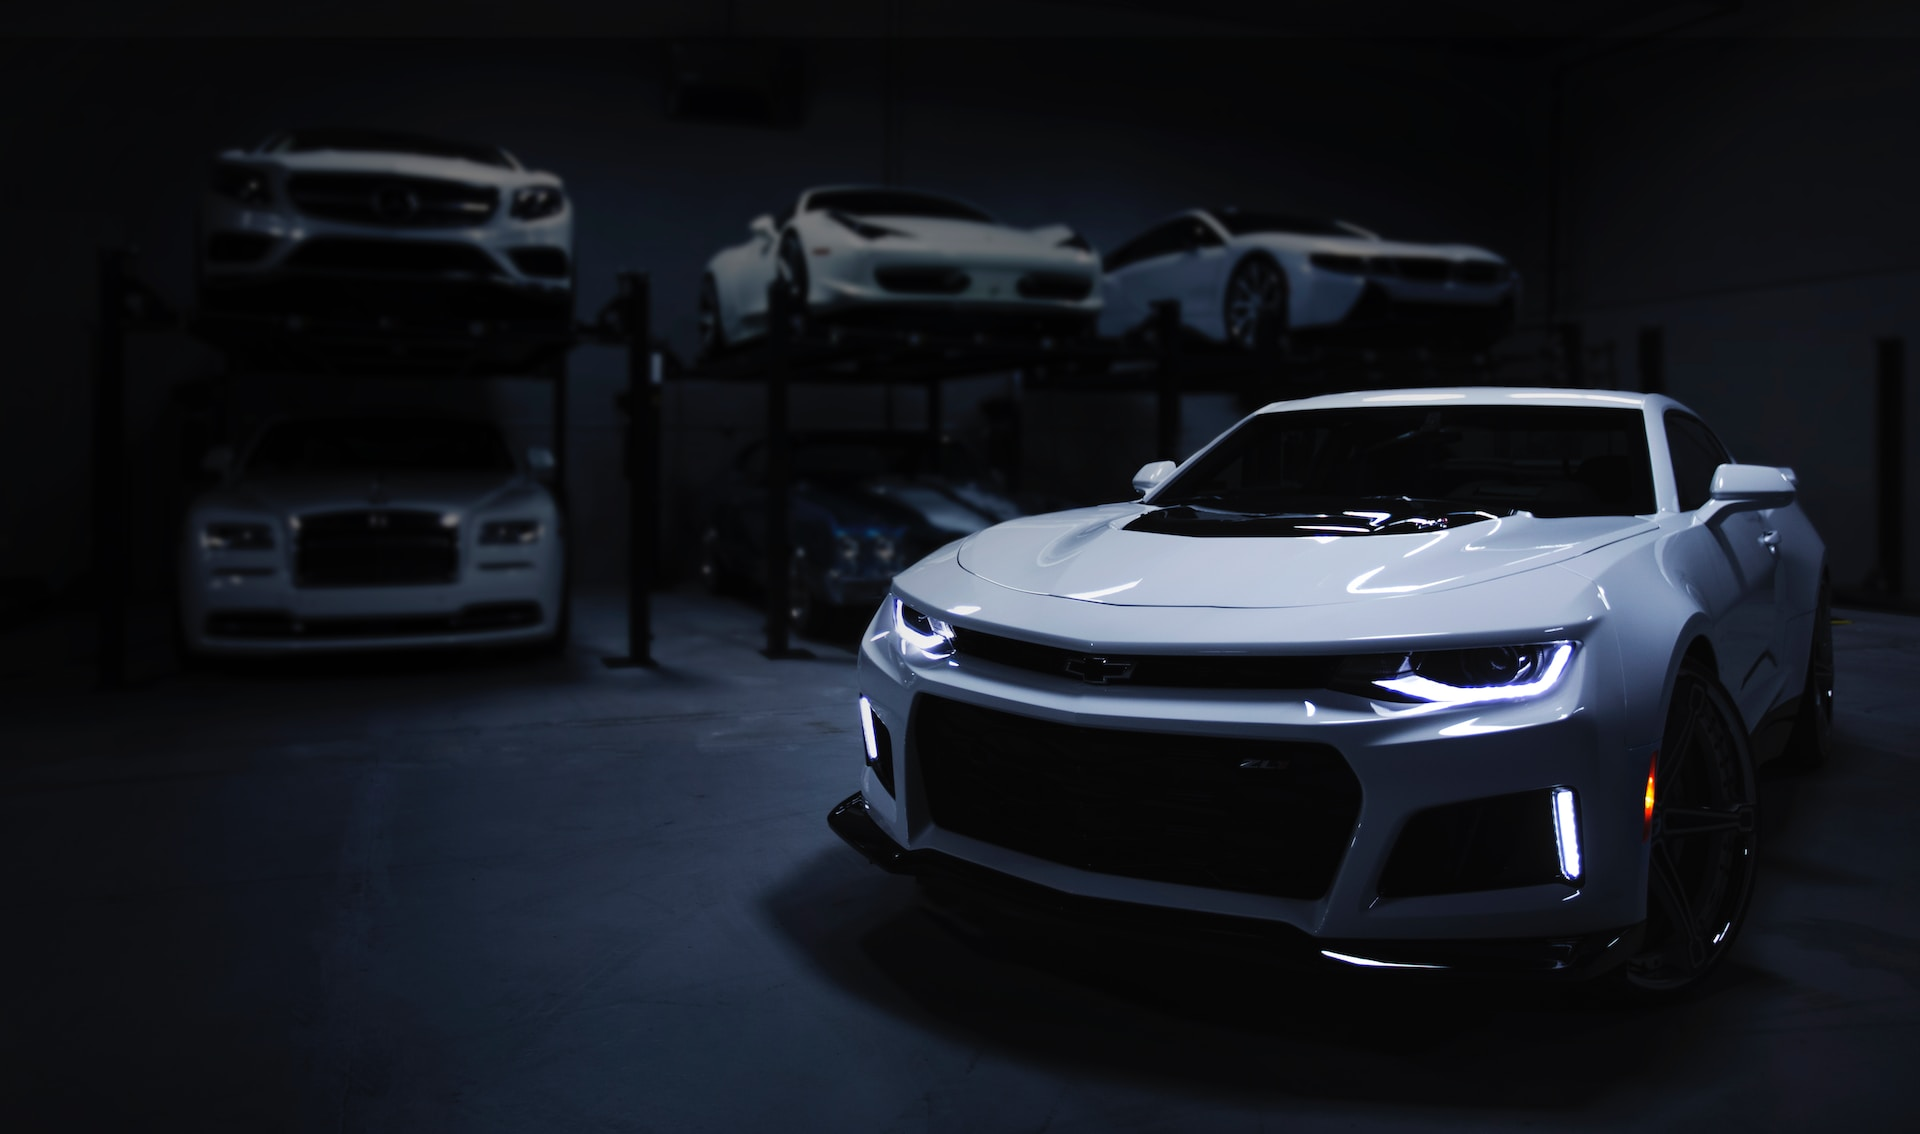
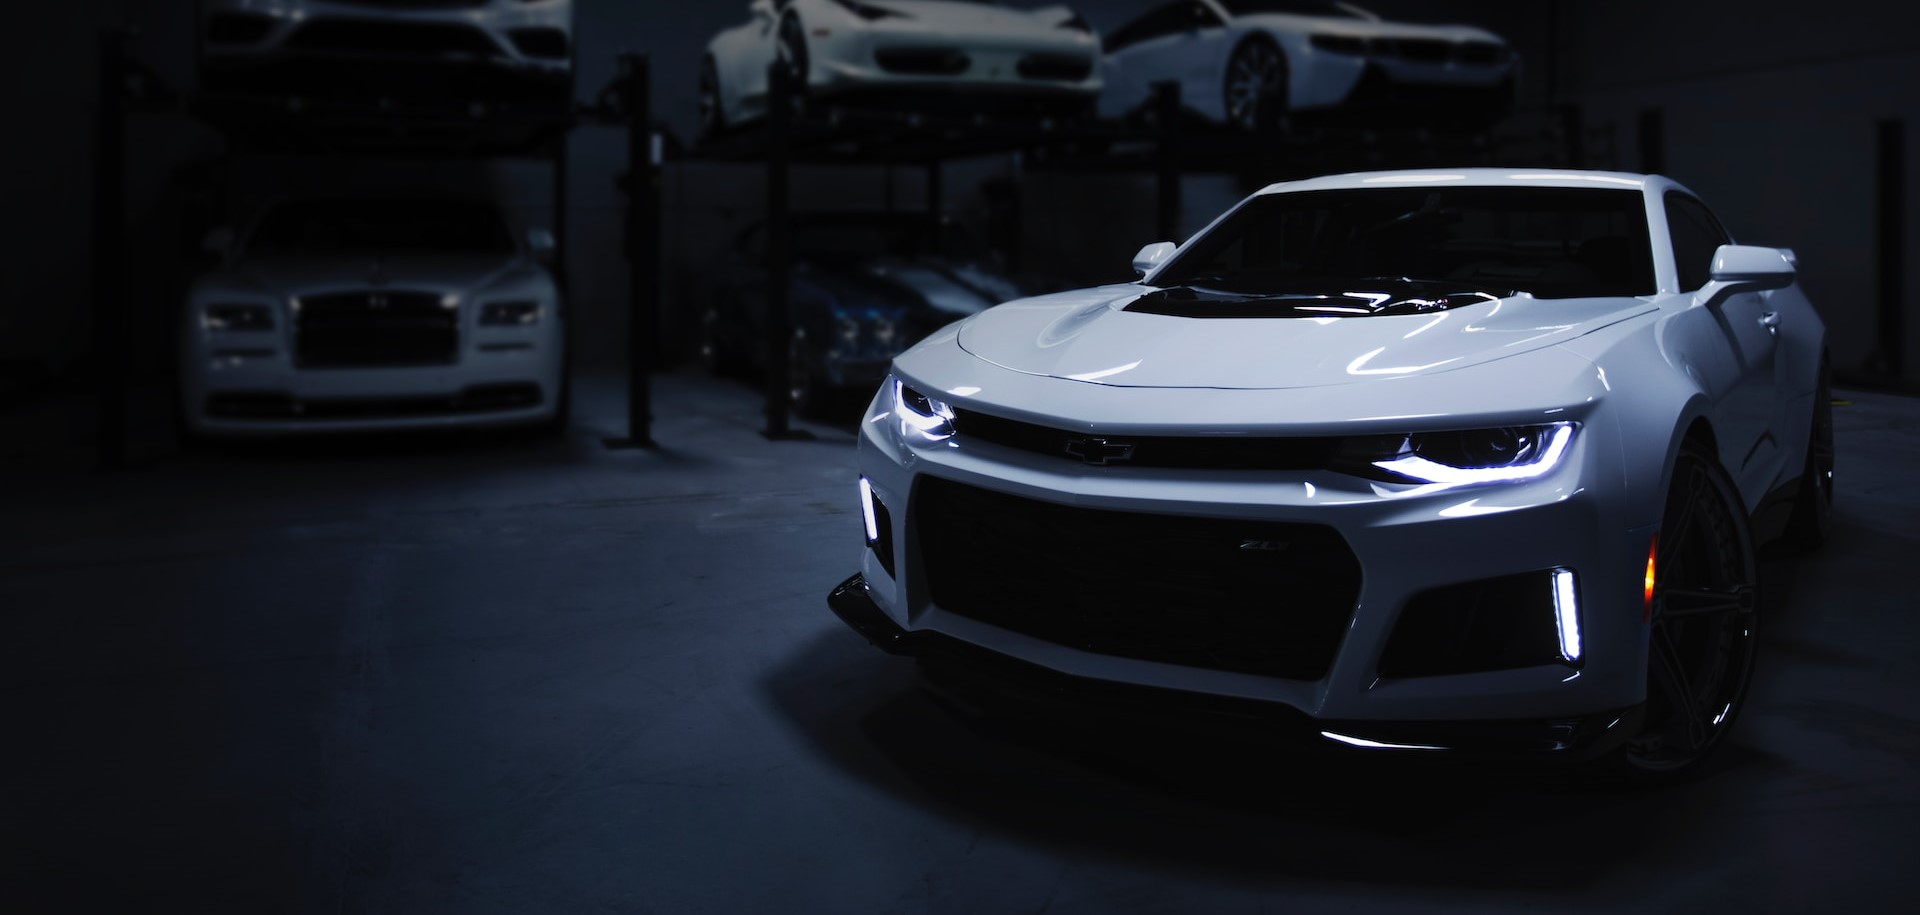
finalizando con el diseño de la pagina y el sass

diff --git a/pages/servicios.html b/pages/servicios.html
@@ -40,31 +40,38 @@
     <main class="index-main">
         <h1>Servicios</h1>
         <section class="section-servicios">
-            <img src="../assets/img/dhiva-krishna-YApS6TjKJ9c-unsplash.jpg">
+            <img src="../assets/img/taller4.jpeg">
             <div>
-                <h2>Titulo</h2>
-                <p>Lorem ipsum, dolor sit amet consectetur adipisicing elit.</p>
+                <h2>Pintado en cabina presurizada</h2>
+                <p>Dispuestos a dejar tu auto luciendo de primer nivel, ocupándonos de retocar hasta el más mínimo detalle, y ofreciendo la mejor pintura calidad-precio de la zona. El tiempo aproximado que se emplea para este servicio es de una semana, dependiendo la cantidad de partes que se deban pintar del vehículo.</p>
             </div>
         </section>
         <section class="section-servicios">
-            <img src="../assets/img/dhiva-krishna-YApS6TjKJ9c-unsplash.jpg">
+            <img src="../assets/img/taller12.jpg">
             <div>
-                <h2>Titulo</h2>
-                <p>Lorem ipsum, dolor sit amet consectetur adipisicing elit.</p>
+                <h2>Reparaciones</h2>
+                <p>Contamos con la capacidad de arreglar cualquier inconveniente estético de tu auto, ya sea choques, bollos, cualquier tipo de ruptura. Empleamos un tiempo aproximado de entre 4 y 7 días dependiendo de la gravedad de la ruptura.</p>
             </div>
         </section>
         <section class="section-servicios">
-            <img src="../assets/img/dhiva-krishna-YApS6TjKJ9c-unsplash.jpg">
+            <img src="../assets/img/para.jpg">
             <div>
-                <h2>Titulo</h2>
-                <p>Lorem ipsum, dolor sit amet consectetur adipisicing elit.</p>
+                <h2>Venta, colocación y reparación de parabrisas</h2>
+                <p>De todas las marcas y tipos, contactanos para consultar por stock o a pedido. El tiempo aproximado de un arreglo es entre 2 y 4 días, y para cambiarlo entre 4 y 7 días.</p>
             </div>
         </section>
         <section class="section-servicios">
-            <img src="../assets/img/dhiva-krishna-YApS6TjKJ9c-unsplash.jpg">
+            <img src="../assets/img/taller2.jpeg">
             <div>
-                <h2>Titulo</h2>
-                <p>Lorem ipsum, dolor sit amet consectetur adipisicing elit.</p>
+                <h2>Herramientas</h2>
+                <p>Contamos con la mejor calidad de herramientas e infraestructura para que tu auto quede como recíen salido de fábrica, empleando las mejores técnicas y haciendo que nuestro trabajo sea de primer nivel.</p>
+            </div>
+        </section>
+        <section class="section-servicios">
+            <img src="../assets/img/taller7.jpg">
+            <div>
+                <h2>Laboratorio de colorimetría</h2>
+                <p>Capaces de replicar el color de tu auto para obtener un resultado expléndido de pintura de mejor calidad. No te quedes sin consultarnos.</p>
             </div>
         </section>
     </main>

diff --git a/index.html b/index.html
@@ -20,6 +20,7 @@
     <link rel="stylesheet" href="https://fonts.googleapis.com/icon?family=Material+Icons"/>
     <link rel="stylesheet" href="./css/style.css">
     <link rel="shortcut icon" href="./assets/img/ico.ico">
+    <script src="https://kit.fontawesome.com/9ef1d71a4e.js" crossorigin="anonymous"></script>
 </head>
 <body>
     <header class="nav-wrapper">
@@ -38,14 +39,53 @@
             </div>
         </nav>
     </header>
-    <main class="main">
-        <div class="pag-princ">
-            <div class="content-section">
-                <div class="tarjeta-2">
-                    <h1>Vanzetti Hnos. Estética del automotor</h1>
-                    <h2>Lorem ipsum, dolor sit amet consectetur adipisicing elit.</h2>
-                    <button>Explorar</button>
+    <main>
+        <div class="carrousel">
+            <div class="conteCarrousel">
+                <div class="itemCarrousel" id="itemCarrousel-1">
+                    <div class="itemCarrouselTarjeta">
+                        <img src="./assets/img/aaaa.jpg">
+                    </div>
+                    <div class="itemCarrouselArrows">
+                        <a href="#itemCarrousel-3">
+                            <i class="fas fa-chevron-left"></i>
+                        </a>
+                        <a href="#itemCarrousel-2">
+                            <i class="fas fa-chevron-right"></i>
+                        </a>
+                    </div>
                 </div>
+                <div class="itemCarrousel" id="itemCarrousel-2">
+                    <div class="itemCarrouselTarjeta">
+                        <img src="./assets/img/lala.jpg">
+                    </div>
+                    <div class="itemCarrouselArrows">
+                        <a href="#itemCarrousel-1">
+                            <i class="fas fa-chevron-left"></i>
+                        </a>
+                        <a href="#itemCarrousel-3">
+                            <i class="fas fa-chevron-right"></i>
+                        </a>
+                    </div>
+                </div>
+                <div class="itemCarrousel" id="itemCarrousel-3">
+                    <div class="itemCarrouselTarjeta">
+                        <img src="./assets/img/chau.jpg">
+                    </div>
+                    <div class="itemCarrouselArrows">
+                        <a href="#itemCarrousel-2">
+                            <i class="fas fa-chevron-left"></i>
+                        </a>
+                        <a href="#itemCarrousel-1">
+                            <i class="fas fa-chevron-right"></i>
+                        </a>
+                    </div>
+                </div>
+            </div>
+            <div class="conteCarrouselController">
+                <a href="#itemCarrousel-1">•</a>
+                <a href="#itemCarrousel-2">•</a>
+                <a href="#itemCarrousel-3">•</a>
             </div>
         </div>
     </main>

diff --git a/css/style.css b/css/style.css
@@ -96,10 +96,60 @@ nav #toggle, nav label {
   position: relative;
   height: 120%; }
 
-.main {
+.carrousel {
+  width: 100%; }
+
+.conteCarrousel {
   width: 100%;
-  height: 740px;
-  background-image: url(../assets/img/holaaa.jpg); }
+  height: 700px;
+  overflow: hidden; }
+
+.itemCarrousel {
+  position: relative;
+  width: 100%;
+  height: 100%; }
+
+.itemCarrouselTarjeta {
+  width: 100%;
+  height: 100%; }
+
+.itemCarrouselArrows {
+  position: absolute;
+  top: 0;
+  bottom: 0;
+  left: 0;
+  right: 0;
+  height: 100%;
+  width: 100%;
+  display: flex;
+  align-items: center;
+  justify-content: space-between;
+  padding: 20px; }
+
+.itemCarrouselArrows > i:hover {
+  cursor: pointer; }
+
+#itemCarrousel-1 {
+  background-color: #e23232; }
+
+#itemCarrousel-2 {
+  background-color: #32c8e2; }
+
+#itemCarrousel-3 {
+  background-color: #c8e232; }
+
+.conteCarrouselController {
+  width: 100%;
+  display: flex;
+  justify-content: space-evenly; }
+
+.conteCarrouselController > a {
+  text-decoration: none;
+  font-size: 2em;
+  color: grey; }
+
+.itemCarrouselArrows > a > i {
+  color: white; }
 
 * {
   margin: 0;
@@ -115,7 +165,8 @@ nav #toggle, nav label {
 .galeria {
   text-align: center;
   text-decoration: underline;
-  font-size: 1.875rem; }
+  font-size: 1.875rem;
+  padding-top: 30px; }
 
 .galeria {
   display: block; }
@@ -210,7 +261,9 @@ nav #toggle, nav label {
   align-items: center;
   margin-top: 0;
   font-family: 'calibri';
-  font-size: 16px; }
+  font-size: 16px;
+  padding-top: 50px;
+  padding-bottom: 100px; }
 
 .index-main h1 {
   text-align: center;
@@ -219,16 +272,18 @@ nav #toggle, nav label {
   background-color: #0c93ec; }
 
 .section-servicios {
-  width: 50%;
+  width: 55%;
   margin: auto;
   display: flex;
   justify-content: center;
   align-items: center;
-  gap: 2.5rem;
-  overflow: hidden; }
+  gap: 3.75rem;
+  overflow: hidden;
+  padding-top: 20px;
+  padding-bottom: 20px; }
   .section-servicios img {
-    width: 150px;
-    height: 200px;
+    width: 190px;
+    height: 250px;
     gap: 2.5rem;
     transform: skew(-10deg);
     transition: 0.5s;

diff --git a/scss/layout/_index.scss b/scss/layout/_index.scss
@@ -1,6 +1,72 @@
-.main {
+// .main {
+//     width: 100%;
+//     height: 740px;
+//     background-image: url(../assets/img/holaaa.jpg);
+// }
+
+.carrousel{
     width: 100%;
-    height: 740px;
-    background-image: url(../assets/img/holaaa.jpg);
 }
 
+.conteCarrousel{
+    width: 100%;
+    height: 700px;
+    overflow: hidden;
+}
+
+.itemCarrousel{
+    position: relative;
+    width: 100%;
+    height: 100%;
+}
+
+.itemCarrouselTarjeta{
+    width: 100%;
+    height: 100%;
+}
+
+.itemCarrouselArrows{
+    position: absolute;
+    top: 0;
+    bottom: 0;
+    left: 0;
+    right: 0;
+    height: 100%;
+    width: 100%; 
+    display: flex;
+    align-items: center;
+    justify-content: space-between;
+    padding: 20px; 
+}
+
+.itemCarrouselArrows > i:hover {
+    cursor: pointer;
+}
+
+#itemCarrousel-1{
+    background-color: rgb(226, 50, 50);
+}
+
+#itemCarrousel-2{
+    background-color: rgb(50, 200, 226);
+}
+
+#itemCarrousel-3{
+    background-color: rgb(200, 226, 50);
+}
+
+.conteCarrouselController{
+    width: 100%;
+    display: flex;
+    justify-content: space-evenly;
+}
+
+.conteCarrouselController > a{
+    text-decoration: none;
+    font-size: 2em;
+    color: grey;
+}
+
+.itemCarrouselArrows > a > i{
+    color: white;
+}

diff --git a/scss/layout/_main-servicios.scss b/scss/layout/_main-servicios.scss
@@ -5,16 +5,16 @@
     background-color: #0c93ec;
 }
 .section-servicios{
-    width: 50%;
+    width: 55%;
     margin: auto;
     display: flex;
     justify-content: center;
     align-items: center;
-    gap: 2.5rem;
+    gap: 3.75rem;
     overflow: hidden;
     img{
-        width: 150px;
-        height: 200px;
+        width: 190px;
+        height: 250px;
         gap: 2.5rem;
         transform: skew(-10deg);
         transition: 0.5s;
@@ -23,6 +23,8 @@
     img:hover{
         transform: scale(1.1);
     }
+    padding-top: 20px;
+    padding-bottom: 20px;
 }
 .section-servicios h1{
     text-align: center;

diff --git a/scss/layout/_main-galeria.scss b/scss/layout/_main-galeria.scss
@@ -8,6 +8,7 @@
     text-align: center;
     text-decoration: underline;
     font-size: 1.875rem;
+    padding-top: 30px;
 }
 .galeria{
     display: block;

diff --git a/scss/layout/_main-quienes-somos.scss b/scss/layout/_main-quienes-somos.scss
@@ -42,4 +42,6 @@
     margin-top: 0;
     font-family: 'calibri';
     font-size: 16px;
+    padding-top: 50px;
+    padding-bottom: 100px;
 }
